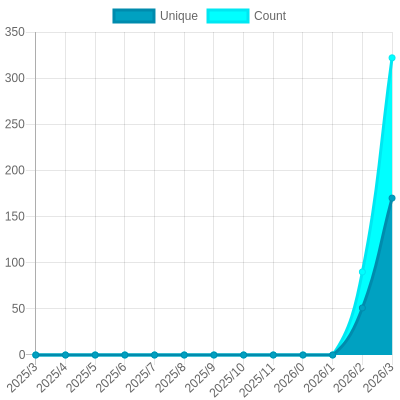
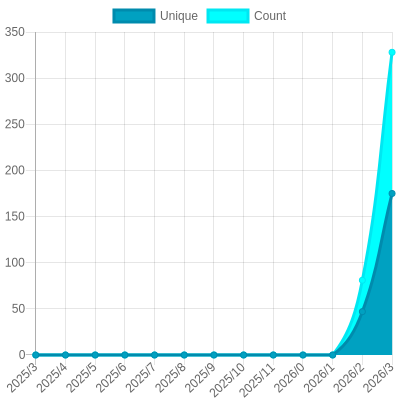
Update views

Changed region(s): [[0.84, 0.54, 0.93, 0.87], [0.93, 0.42, 0.99, 0.54], [0.96, 0.12, 0.99, 0.21]]

diff --git a/readme/231042074/year.md b/readme/231042074/year.md
@@ -23,10 +23,10 @@
 			<code>2025/4/1</code>
 		</td>
 		<td>
-			<code>170</code>
+			<code>175</code>
 		</td>
 		<td>
-			<code>322</code>
+			<code>328</code>
 		</td>
 	</tr>
 	<tr>
@@ -34,10 +34,10 @@
 			<code>2025/3/1</code>
 		</td>
 		<td>
-			<code>51</code>
+			<code>47</code>
 		</td>
 		<td>
-			<code>90</code>
+			<code>81</code>
 		</td>
 	</tr>
 	<tr>
@@ -164,7 +164,7 @@
 </table>
 
 </details>
-<small><i>Last updated on 2025/4/13 6:10 AM UTC</i></small>
+<small><i>Last updated on 2025/4/13 12:13 PM UTC</i></small>
 
 ## ✂Copy and 📋 Paste
 ### SVG Badge

diff --git a/README.md b/README.md
@@ -37,7 +37,7 @@ The project created and maintained by [gayanvoice](https://github.com/gayanvoice
 	</tr>
 </table>
 
-<small><i>Last updated on 2025/4/13 6:10 AM UTC</i></small>
+<small><i>Last updated on 2025/4/13 12:13 PM UTC</i></small>
 
 ## ✂Copy and 📋 Paste
 ### Total Views Badge
